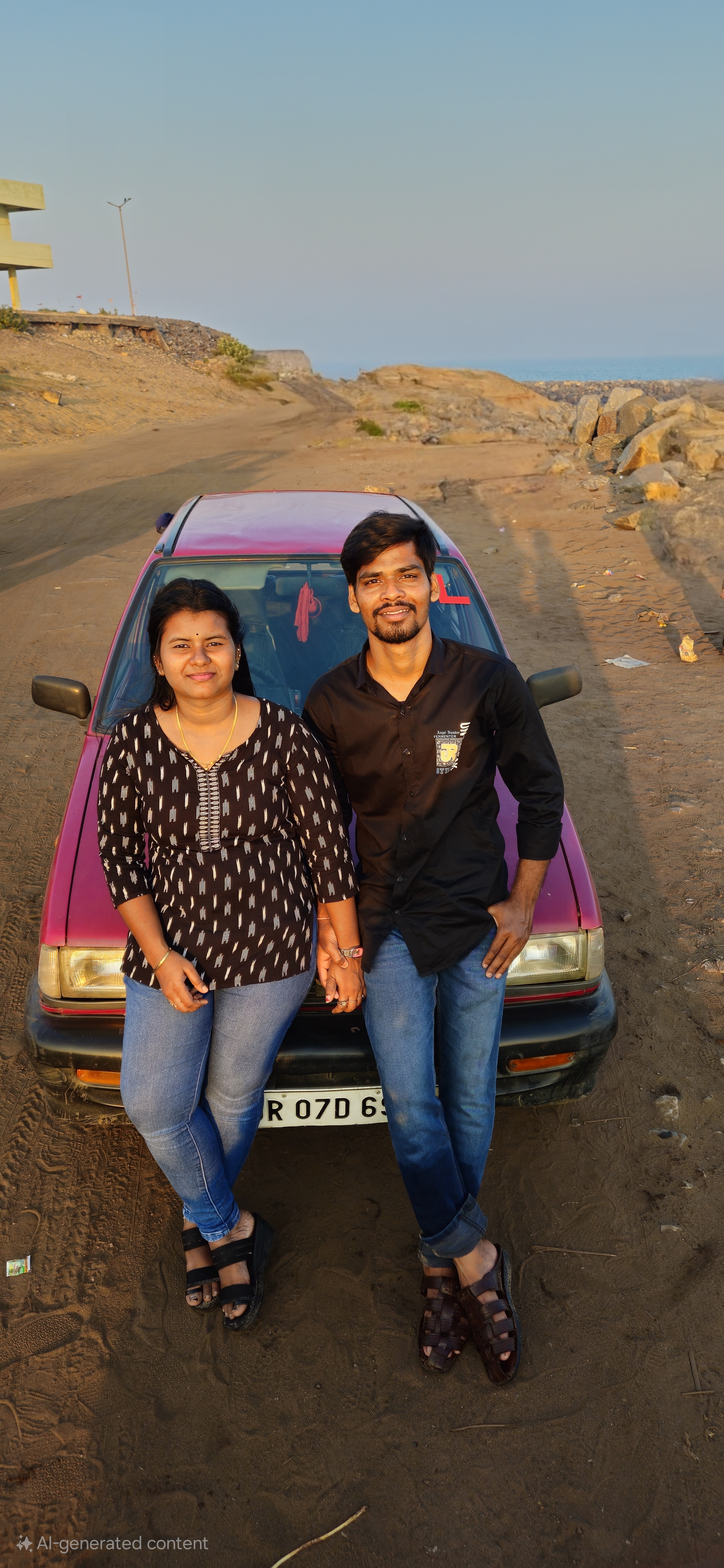
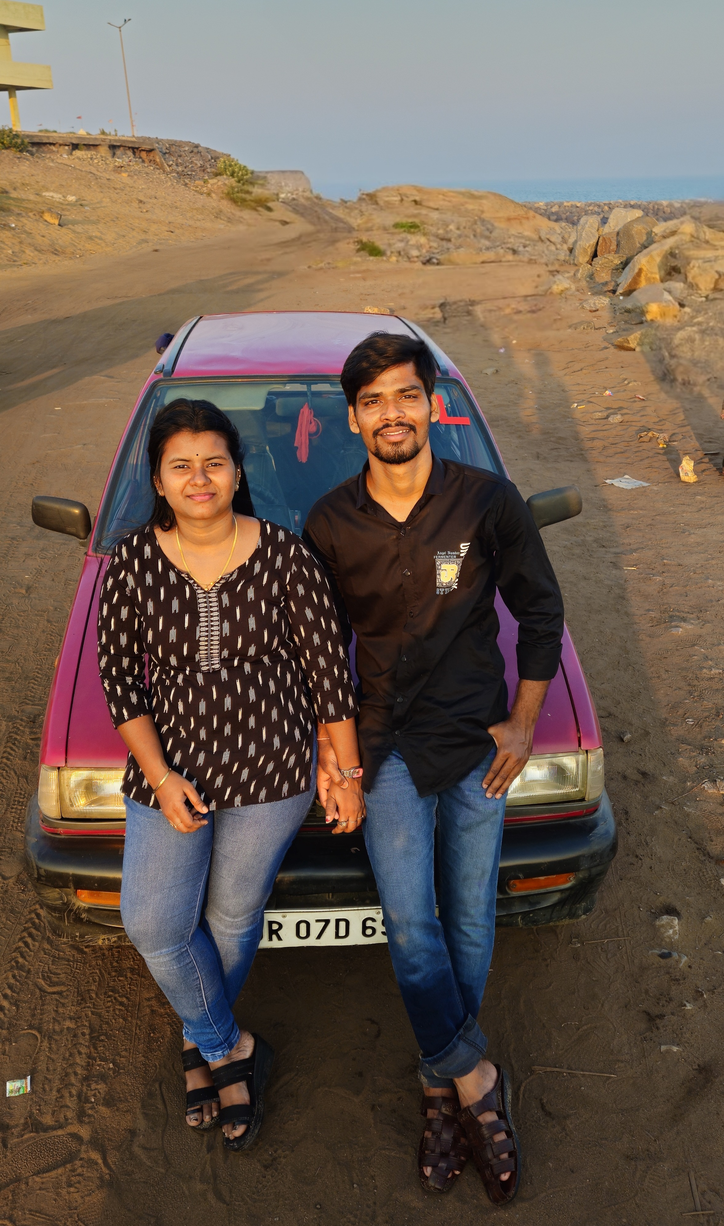
Updated romantic website code

diff --git a/css/style.css b/css/style.css
@@ -45,45 +45,58 @@ animation: slide 1s;
 display:block;
 }
 
-.popup{
-position:fixed;
-top:0;
-left:0;
+/* img{
 width:100%;
-height:100%;
-background:rgba(0,0,0,0.8);
-display:none;
-justify-content:center;
-align-items:center;
-z-index:999;
-}
-
-.popup-content{
-background:linear-gradient(135deg,#ff4d6d,#ff99ac);
-padding:30px;
+height: 300px;
+object-fit: contain;
 border-radius:20px;
-text-align:center;
-color:white;
-width:85%;
-max-width:350px;
-box-shadow:0 0 30px pink;
-animation: pop 0.5s ease;
-}
-
-.popup-content p{
-font-size:18px;
-margin-bottom:20px;
-}
-
-@keyframes pop{
-from{transform:scale(0.5);opacity:0;}
-to{transform:scale(1);opacity:1;}
-}
-
-img{
-width:100%;
-border-radius:20px;
+margin: 20px;
 box-shadow:0 0 25px pink;
+} */
+
+.img1 {
+    width: 320px;
+    height: auto;
+    object-fit: contain;
+    border-radius:20px;
+    margin: 20px;
+    box-shadow:0 0 25px pink;
+}
+
+.img2 {
+    width: 260px;
+    height: auto;
+    object-fit: contain;
+    border-radius:20px;
+    margin: 20px;
+    box-shadow:0 0 25px pink;
+}
+
+.img3 {
+    width: 400px;
+    height: 450px;
+    object-fit: contain;
+    border-radius:20px;
+    margin: 20px;
+    box-shadow:0 0 25px pink;
+}
+
+.img4 {
+    width: 300px;
+    height: auto;
+    object-fit: contain;
+    border-radius:20px;
+    margin: 20px;
+    box-shadow:0 0 25px pink;
+}
+
+.img5 {
+    width: 350px;
+    height: 320px;
+    object-fit: contain;
+    border-radius:20px;
+    margin: 20px;
+    box-shadow:0 0 25px pink;
 }
 
 button{
@@ -112,6 +125,30 @@ text-align:center;
 .typing{
 font-size:30px;
 color:pink;
+}
+
+.floatingEmoji{
+    position: fixed;
+    bottom: -40px;
+    font-size: 26px;
+    pointer-events: none;
+    animation: floatUp linear forwards;
+}
+
+@keyframes floatUp{
+    0%{
+        transform: translateY(0);
+        opacity: 0;
+    }
+
+    20%{
+        opacity: 1;
+    }
+
+    100%{
+        transform: translateY(-110vh);
+        opacity: 0;
+    }
 }
 
 @keyframes slide{

diff --git a/js/script.js b/js/script.js
@@ -44,17 +44,32 @@ setTimeout(typing,80);
 typing();
 
 // Emoji Burst
-function emojiBurst(emoji){
-for(let i=0;i<15;i++){
-let span=document.createElement("span");
-span.innerText=emoji;
-span.className="emoji";
-span.style.left=Math.random()*100+"%";
-document.body.appendChild(span);
+function emojiBurst(){
 
-setTimeout(()=>span.remove(),2000);
+    const emojis = ["❤","💖","💕","💘","✨","🌹"];
+    const total = 25;   // number of floating emojis
+
+    for(let i=0;i<total;i++){
+
+        let span = document.createElement("span");
+
+        span.innerText = emojis[Math.floor(Math.random()*emojis.length)];
+        span.classList.add("floatingEmoji");
+
+        // Random horizontal position
+        span.style.left = Math.random()*100 + "%";
+
+        // Random animation speed
+        span.style.animationDuration = (3 + Math.random()*2) + "s";
+
+        document.body.appendChild(span);
+
+        // Remove after animation
+        setTimeout(()=>span.remove(),5000);
+    }
 }
-}
+
+
 
 // Proposal Popup
 function funResponse(type){
@@ -77,22 +92,21 @@ emojiBurst("💖");
 function closePopup(){
 document.getElementById("popup").style.display="none";
 }
-
-
 // Floating Emoji Style
 let style=document.createElement('style');
+
 style.innerHTML=`
-.emoji{
-position:fixed;
-top:100%;
-font-size:25px;
-animation: float 2s linear;
+.emojiBurst{
+    position: fixed;
+    left: 50%;
+    top: 40%;
+    font-size: 30px;
+    transition: transform 3.5s ease-out, opacity 3.5s ease-out;
 }
-@keyframes float{
-from{transform:translateY(0);}
-to{transform:translateY(-800px);}
-}`;
+`;
+
 document.head.appendChild(style);
+
 
 const music = document.getElementById("bgMusic");
 

diff --git a/index.html b/index.html
@@ -27,27 +27,27 @@
 </section>
 
 <section class="page">
-<img src="images/img1.jpg">
+<img src="images/img1.jpg" class="img1">
 <p>9 years ago my life changed forever You are the best chapter of my life 💕</p>
 </section>
 
 <section class="page">
-<img src="images/img2.jpg">
+<img src="images/img2.jpg" class="img2">
 <p>We laughed, cried and grew together, Every moment with you is magical ✨</p>
 </section>
 
 <section class="page">
-<img src="images/img3.jpg">
+<img src="images/img3.jpg" class="img3">
 <p>Thank you for always standing beside me becasue You are my happiness ❤</p>
 </section>
 
 <section class="page">
-<img src="images/img4.jpg">
+<img src="images/img4.jpg" class="img4">
 <p>Will you continue this journey with me forever? 💍</p>
 </section>
 
 <section class="page">
-<img src="images/img5.jpg">
+<img src="images/img5.jpg" class="img5">
 <p class="final">
 Will you stay with me forever? 💍
 </p>
